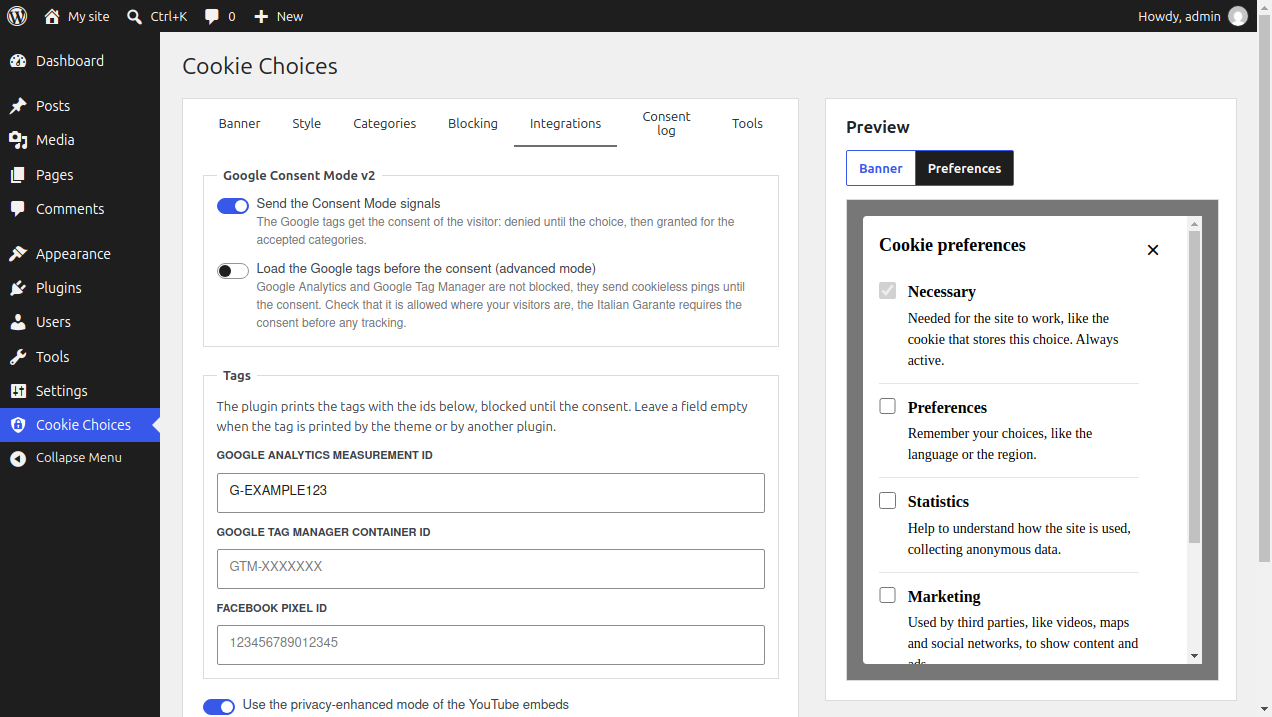
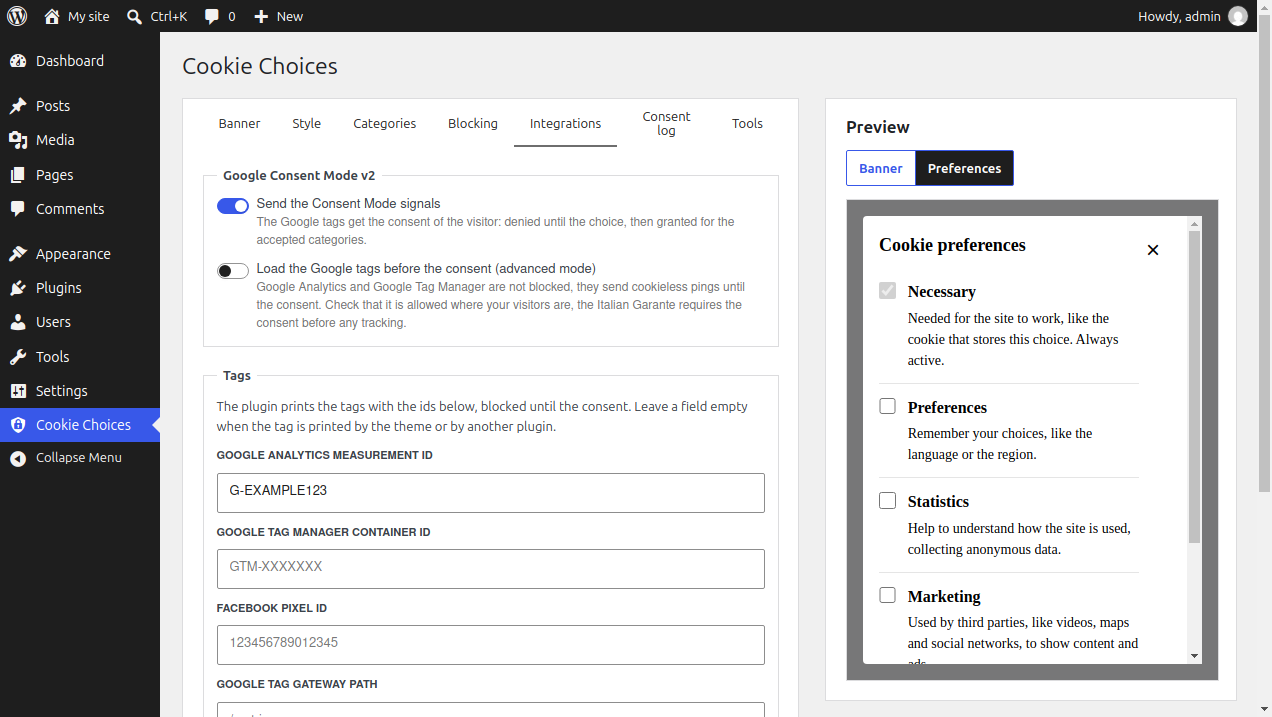
Prepare the 3.1.0 release

Changed region(s): [[0.1533, 0.9205, 0.4599, 1.0], [0.9811, 0.675, 1.0, 0.7978]]

diff --git a/italy-cookie-choices.php b/italy-cookie-choices.php
@@ -3,7 +3,7 @@
  * Plugin Name: Cookie Choices (for EU Cookie Law & GDPR)
  * Plugin URI: https://github.com/ItalyCookieChoices/italy-cookie-choices
  * Description: Asks the cookie consent by category and blocks the third party scripts, videos and maps until the consent.
- * Version: 3.0.1
+ * Version: 3.1.0
  * Requires at least: 6.5
  * Requires PHP: 8.2
  * Author: Enea Overclokk, Andrea Pernici, Andrea Cardinale

diff --git a/README.md b/README.md
@@ -5,7 +5,7 @@ Donate link:
 **Requires at least:** 6.5  
 **Requires PHP:** 8.2  
 **Tested up to:** 7.1  
-**Stable tag:** 3.0.1  
+**Stable tag:** 3.1.0  
 **License:** GPLv2 or later  
 **License URI:** http://www.gnu.org/licenses/gpl-2.0.html  
 
@@ -103,6 +103,12 @@ In JavaScript use `window.italyCookieChoices.hasConsent( 'statistics' )`, in PHP
 7. The placeholder of a blocked video
 
 ## Changelog ##
+
+### 3.1.0 ###
+
+* The consent is written to the WP Consent API: WooCommerce, Site Kit and the other plugins that read it no longer see a full consent before the choice
+* The Google tags served from the site domain by the Google tag gateway wait for the consent, by their id or by the new **Google tag gateway path** setting
+* The consent lasts six months in Safari too, the server sets the consent cookie again after each choice
 
 ### 3.0.1 ###
 
@@ -406,6 +412,9 @@ Dev time: 50h
 * First release.
 
 ## Upgrade Notice ##
+
+### 3.1.0 ###
+Writes the consent to the WP Consent API, blocks the Google tags served by the Google tag gateway and keeps the consent for six months in Safari.
 
 ### 3.0.1 ###
 Fixes the migration from 2.x and the Italian texts shown in English: update before your visitors see the new banner.
